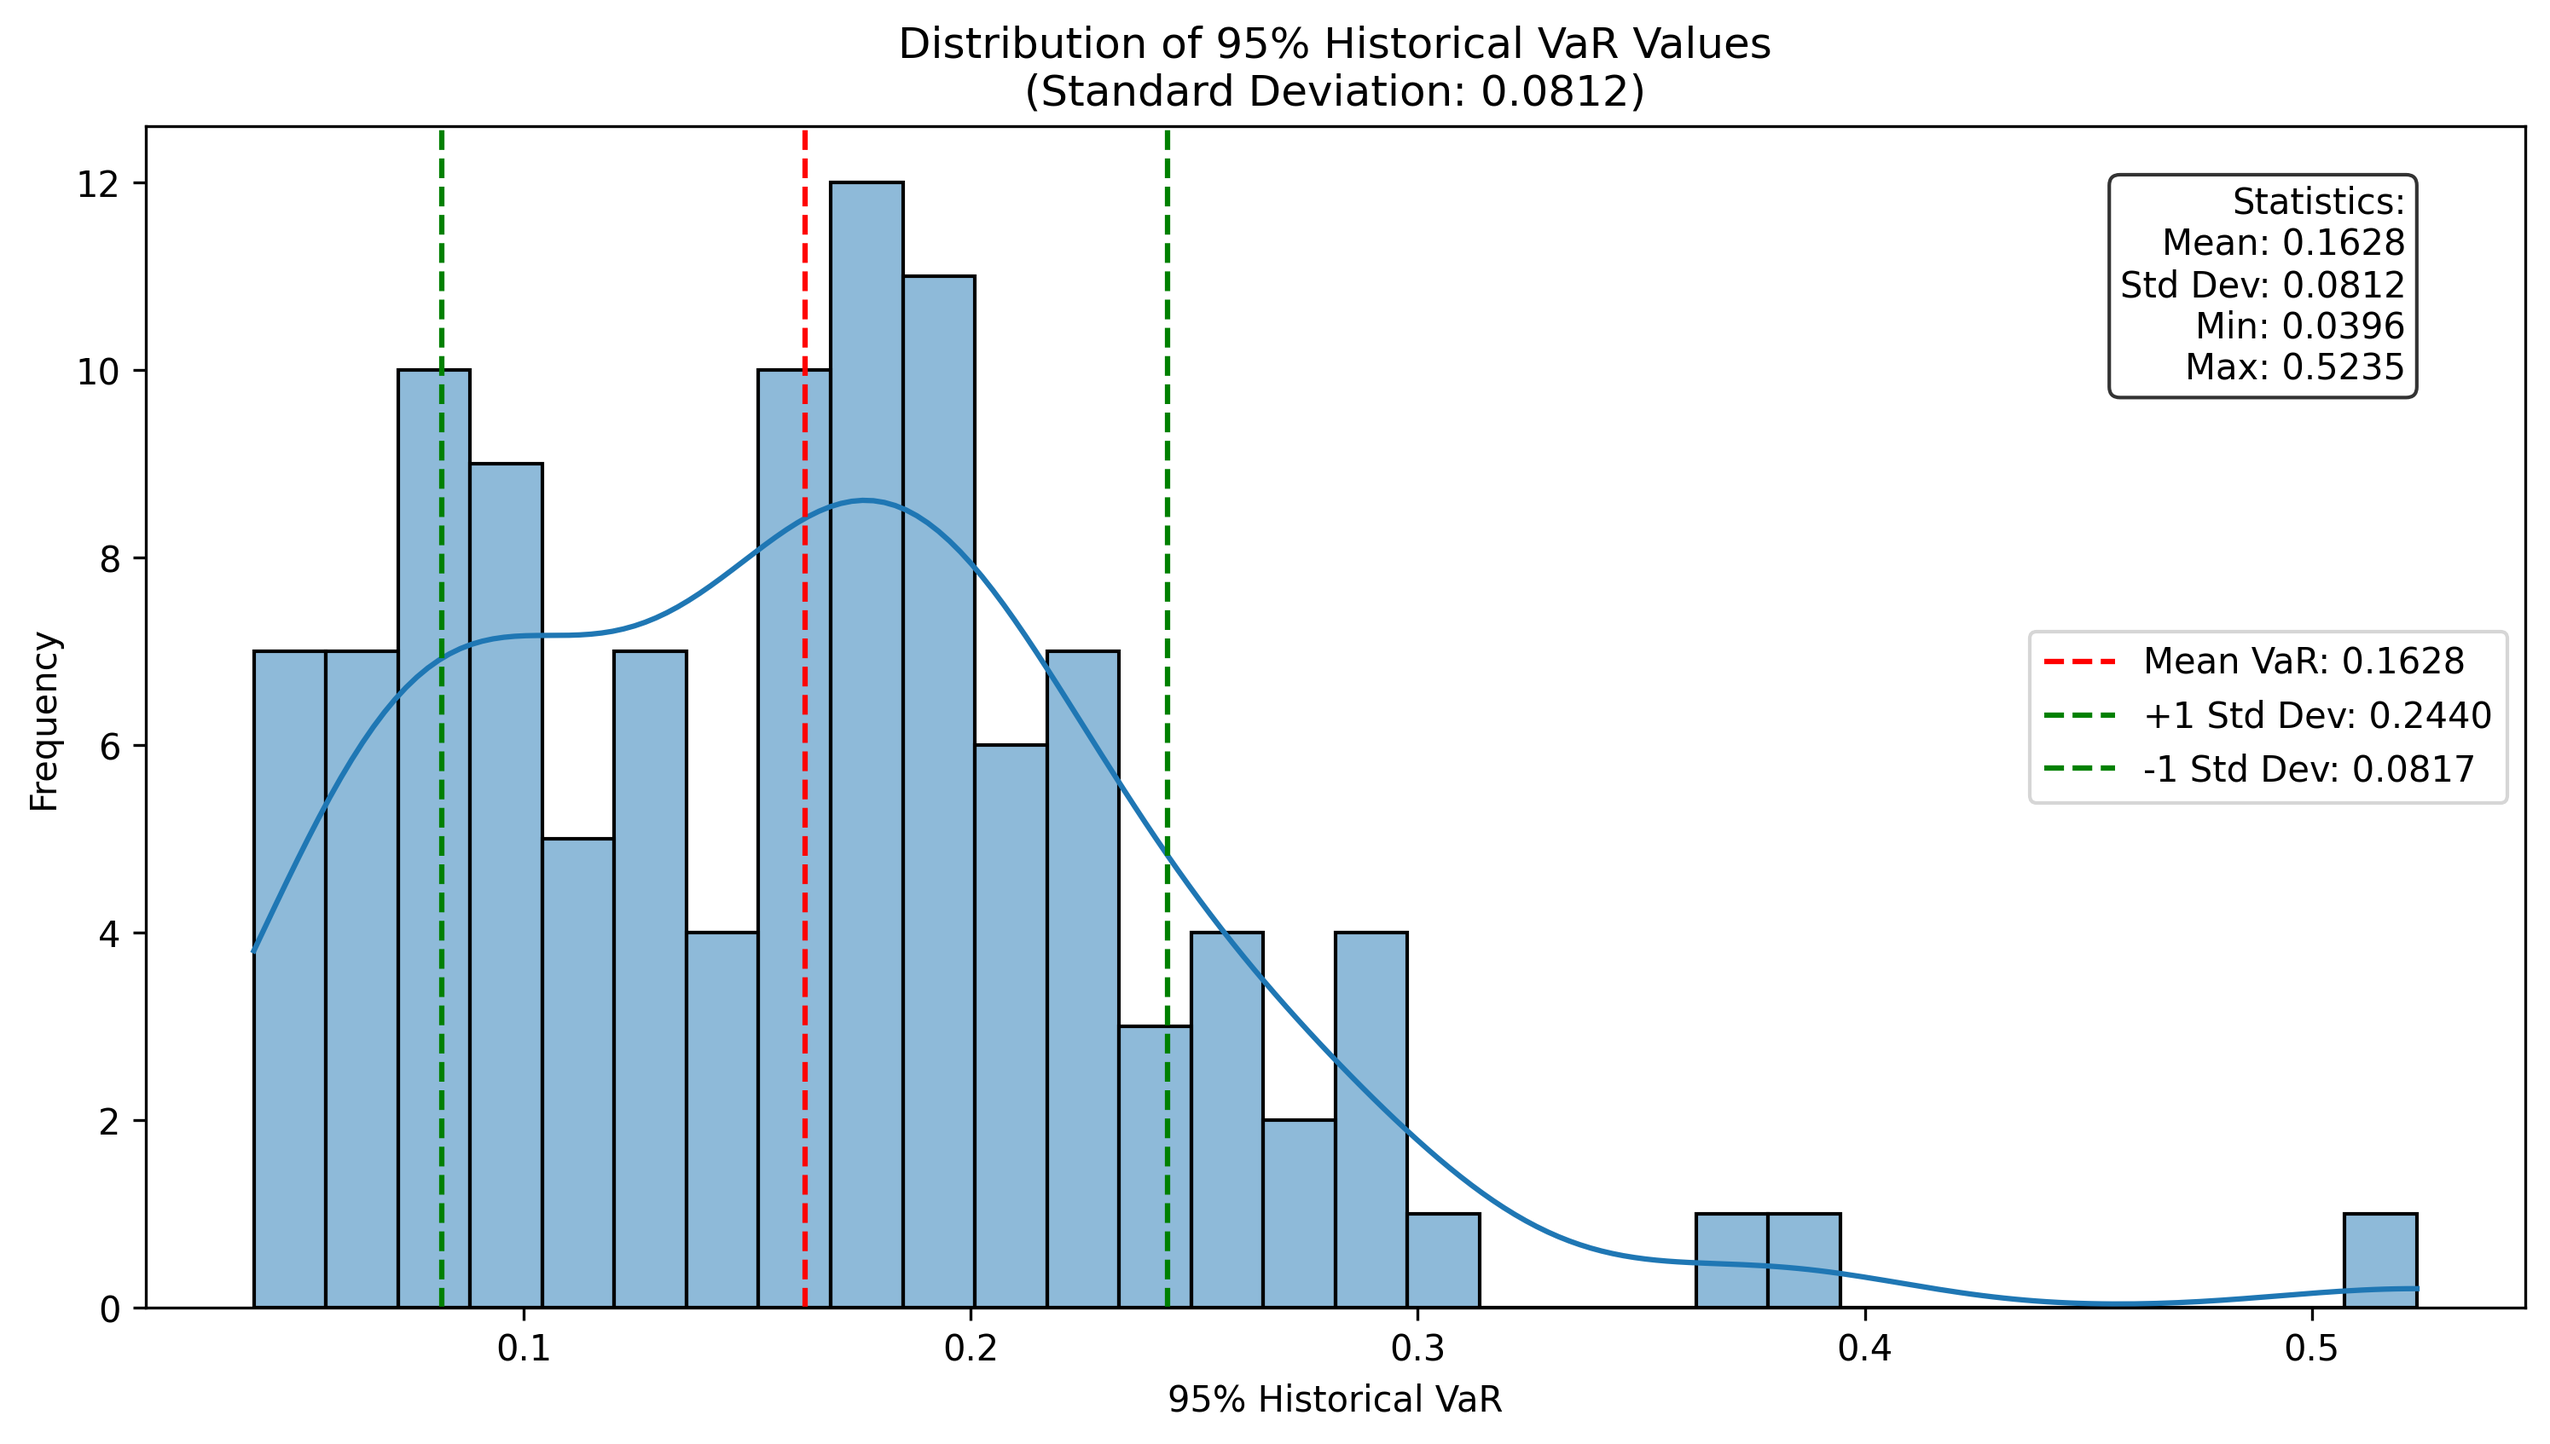
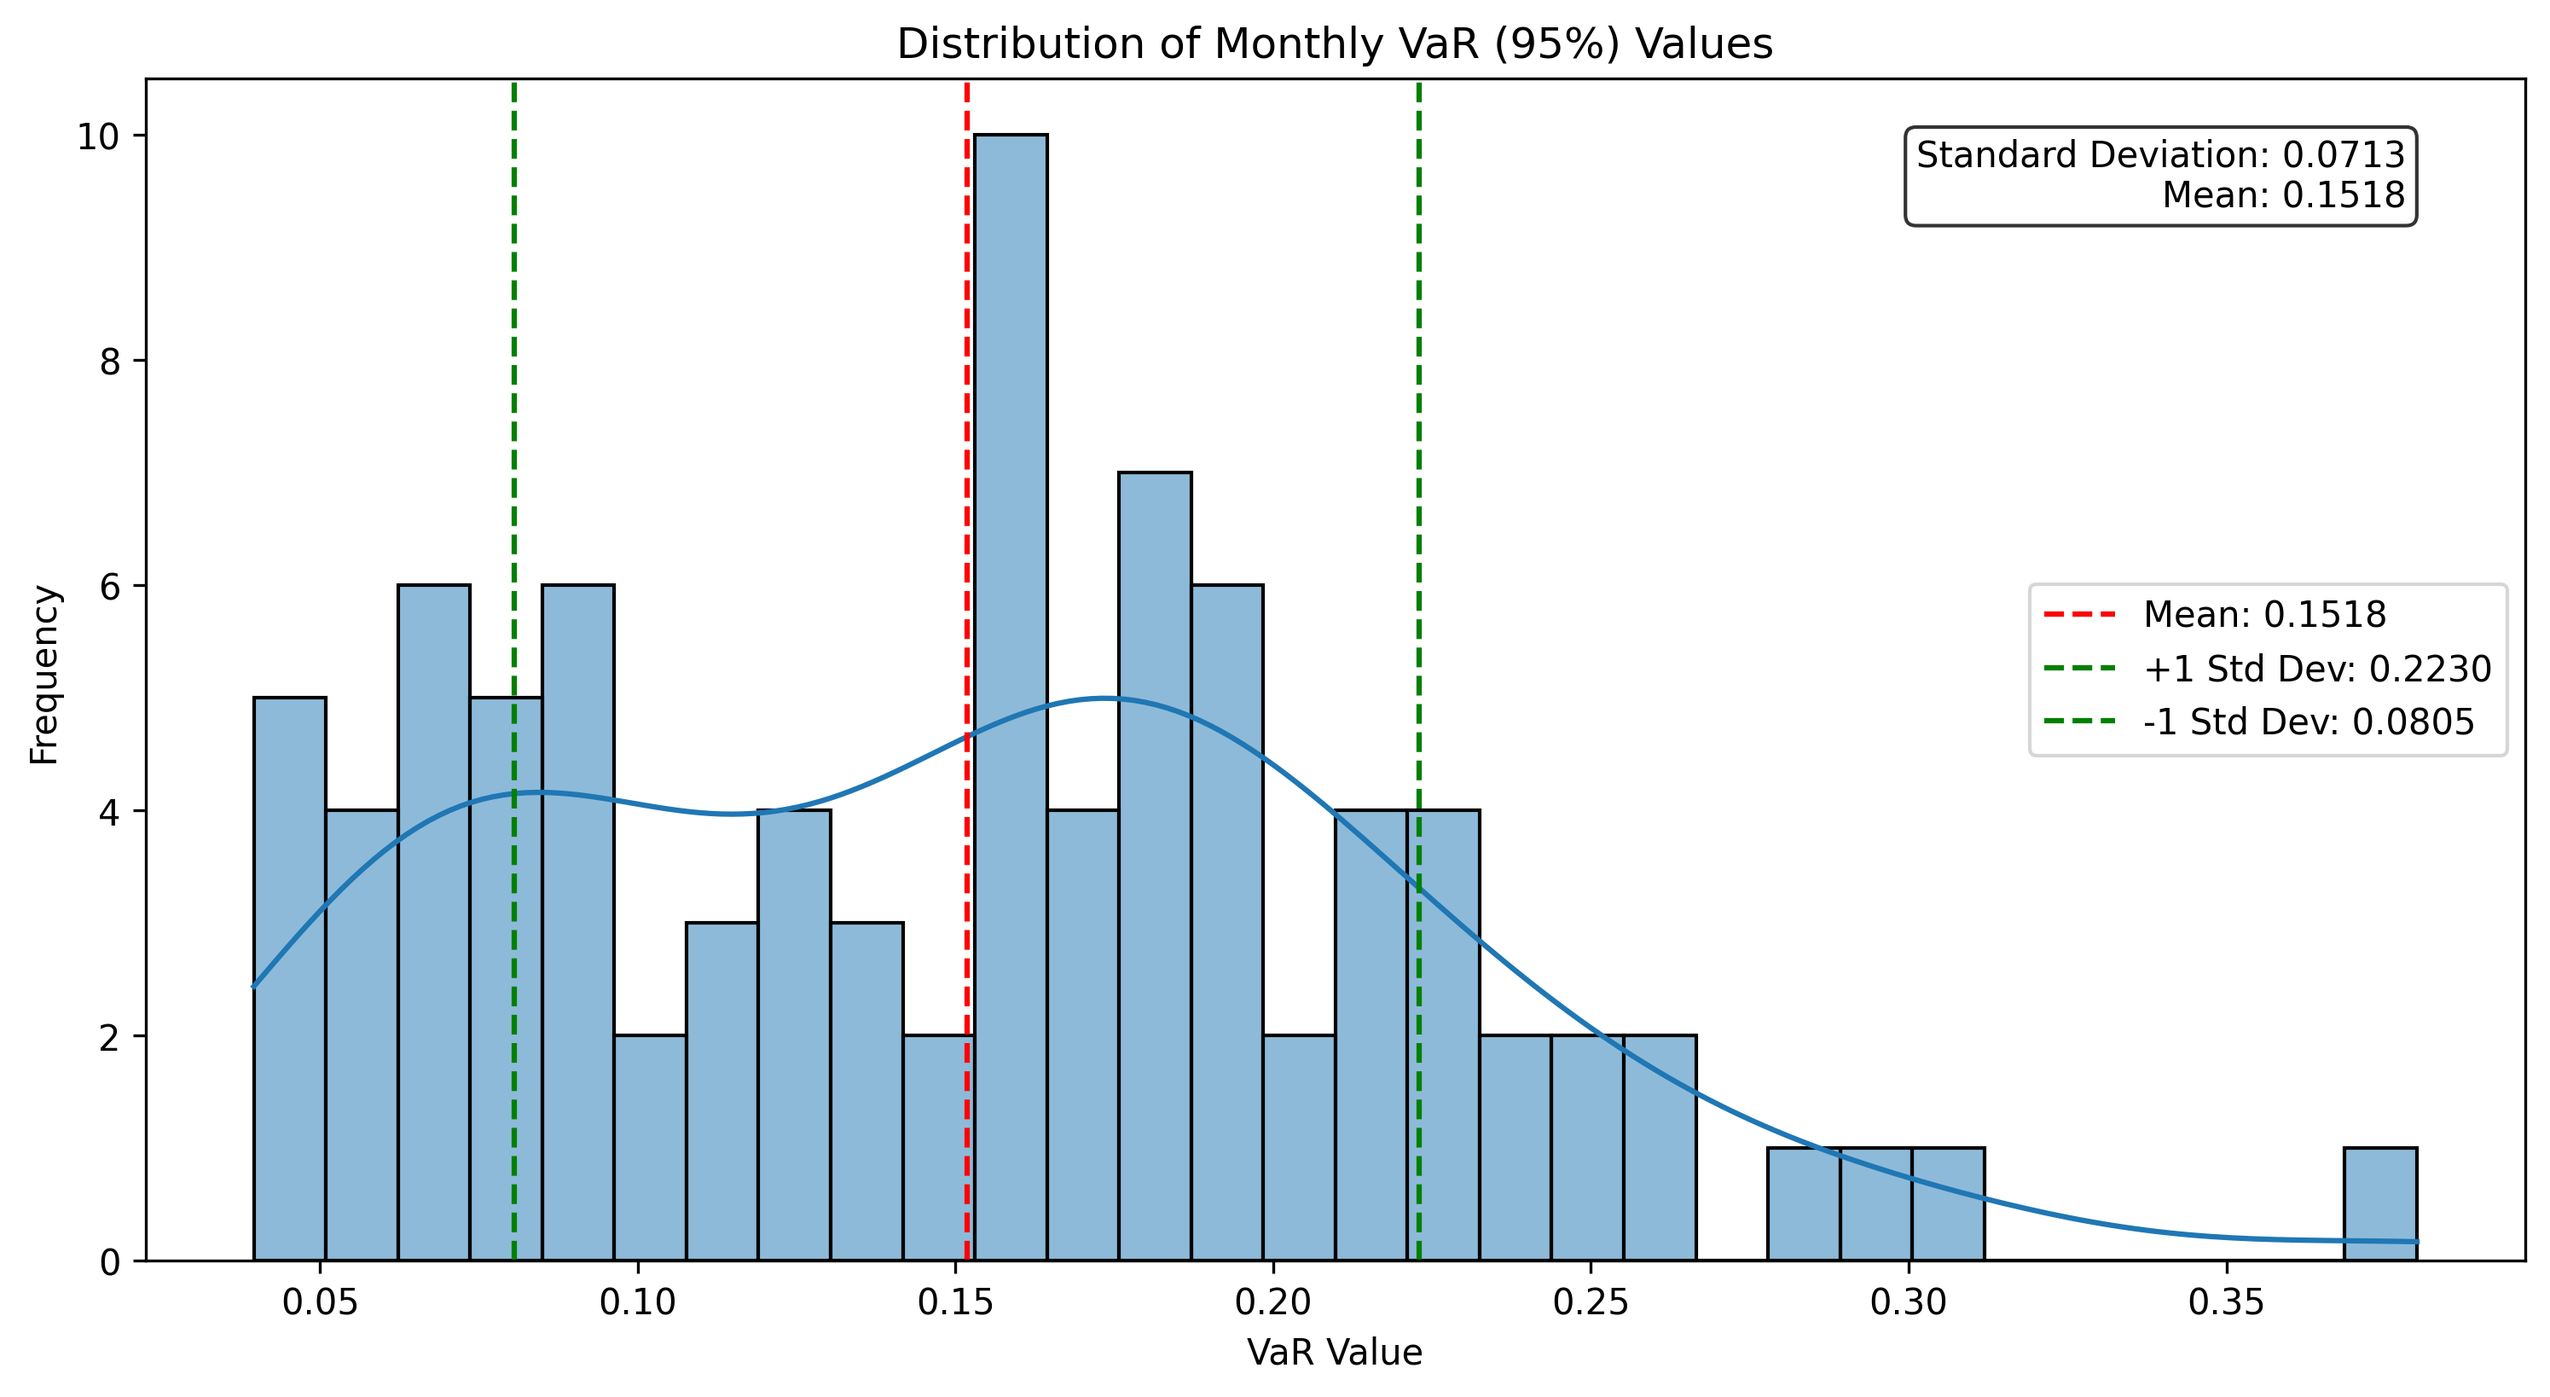
new

diff --git a/count_zero_volume.py b/count_zero_volume.py
@@ -1,0 +1,50 @@
+import json
+from pathlib import Path
+import pandas as pd
+
+def count_zero_volumes():
+    # Directory containing the stock price JSON files
+    results_dir = Path('results')
+    
+    # Dictionary to store results
+    zero_volume_counts = {}
+    
+    # Process each JSON file
+    for file_path in results_dir.glob('stock_price_*.json'):
+        stock_code = file_path.stem.split('_')[-1]
+        print(f"Processing {stock_code}...")
+        
+        try:
+            # Read JSON file
+            with open(file_path, 'r', encoding='utf-8') as f:
+                data = json.load(f)
+            
+            # Count occurrences of "TotalMatchVol": "0"
+            zero_count = sum(1 for item in data if item.get('TotalMatchVol') == '0')
+            
+            # Store result
+            zero_volume_counts[stock_code] = zero_count
+            
+        except Exception as e:
+            print(f"Error processing {stock_code}: {str(e)}")
+    
+    # Convert to DataFrame for better visualization
+    df = pd.DataFrame(list(zero_volume_counts.items()), columns=['Stock', 'ZeroVolumeCount'])
+    df = df.sort_values('ZeroVolumeCount', ascending=False)
+    
+    # Filter stocks with more than 100 zero volumes
+    high_zero_volume_stocks = df[df['ZeroVolumeCount'] > 100]
+    
+    # Save results to JSON
+    output_file = 'zero_volume_counts.json'
+    with open(output_file, 'w', encoding='utf-8') as f:
+        json.dump(zero_volume_counts, f, indent=4)
+    
+    # Print summary of stocks with high zero volumes
+    print("\nStocks with more than 100 zero volume entries:")
+    print(high_zero_volume_stocks)
+    print(f"\nTotal number of stocks with >100 zero volumes: {len(high_zero_volume_stocks)}")
+    print(f"\nFull results saved to {output_file}")
+
+if __name__ == "__main__":
+    count_zero_volumes() 

diff --git a/analyze_var_distribution.py b/analyze_var_distribution.py
@@ -1,0 +1,47 @@
+import pandas as pd
+import numpy as np
+import matplotlib.pyplot as plt
+from pathlib import Path
+import seaborn as sns
+
+# Create output directory for plots
+output_dir = Path('var_analysis')
+output_dir.mkdir(exist_ok=True)
+
+# Read the filtered VAR results
+var_df = pd.read_csv('filtered_historical_var_95_results.csv')
+
+# Calculate standard deviation
+std_dev = var_df['historical_var_95'].std()
+mean = var_df['historical_var_95'].mean()
+
+# Create the distribution plot
+plt.figure(figsize=(12, 6))
+sns.histplot(data=var_df, x='historical_var_95', bins=30, kde=True)
+
+# Add mean and standard deviation lines
+plt.axvline(mean, color='red', linestyle='--', label=f'Mean: {mean:.4f}')
+plt.axvline(mean + std_dev, color='green', linestyle='--', label=f'+1 Std Dev: {mean + std_dev:.4f}')
+plt.axvline(mean - std_dev, color='green', linestyle='--', label=f'-1 Std Dev: {mean - std_dev:.4f}')
+
+# Customize the plot
+plt.title('Distribution of Monthly VaR (95%) Values')
+plt.xlabel('VaR Value')
+plt.ylabel('Frequency')
+plt.legend()
+
+# Add text box with statistics
+stats_text = f'Standard Deviation: {std_dev:.4f}\nMean: {mean:.4f}'
+plt.text(0.95, 0.95, stats_text,
+         transform=plt.gca().transAxes,
+         verticalalignment='top',
+         horizontalalignment='right',
+         bbox=dict(boxstyle='round', facecolor='white', alpha=0.8))
+
+# Save the plot
+plt.savefig(output_dir / 'var_distribution.png', dpi=300, bbox_inches='tight')
+plt.close()
+
+print(f"Standard Deviation of Monthly VaR: {std_dev:.4f}")
+print(f"Mean of Monthly VaR: {mean:.4f}")
+print(f"Plot saved to: {output_dir / 'var_distribution.png'}") 

diff --git a/list_var_bins.py b/list_var_bins.py
@@ -1,0 +1,24 @@
+import pandas as pd
+import numpy as np
+
+# Read the filtered VAR results
+var_df = pd.read_csv('filtered_historical_var_95_results.csv')
+
+# Define bins (same as in the plot)
+bins = np.linspace(var_df['historical_var_95'].min(), var_df['historical_var_95'].max(), 31)  # 30 bins
+labels = [f"{bins[i]:.4f} - {bins[i+1]:.4f}" for i in range(len(bins)-1)]
+
+# Assign each stock to a bin
+var_df['VaR_bin'] = pd.cut(var_df['historical_var_95'], bins=bins, labels=labels, include_lowest=True)
+
+# Group by bin and list stocks
+bin_groups = var_df.groupby('VaR_bin')['stock_code'].apply(list)
+frequencies = var_df['VaR_bin'].value_counts().sort_index()
+
+# Output the results
+for bin_label in labels:
+    stocks_in_bin = bin_groups.get(bin_label, [])
+    freq = frequencies.get(bin_label, 0)
+    print(f"Range: {bin_label}")
+    print(f"  Frequency: {freq}")
+    print(f"  Stocks: {', '.join(stocks_in_bin) if stocks_in_bin else 'None'}\n") 

diff --git a/sort_var_bins_json.py b/sort_var_bins_json.py
@@ -1,0 +1,24 @@
+import json
+import pandas as pd
+
+# Load VaR values
+var_df = pd.read_csv('filtered_historical_var_95_results.csv').set_index('stock_code')
+
+# Load bins summary
+with open('var_bins_summary.json', 'r') as f:
+    bins = json.load(f)
+
+# Sort stocks in each bin by their VaR value
+for bin_info in bins:
+    stocks = bin_info['stocks']
+    # Get (stock, var) pairs and sort
+    stock_vars = [(stock, var_df.loc[stock, 'historical_var_95']) for stock in stocks if stock in var_df.index]
+    stock_vars_sorted = sorted(stock_vars, key=lambda x: x[1])
+    # Replace with sorted stock codes
+    bin_info['stocks'] = [s for s, v in stock_vars_sorted]
+
+# Save the updated bins summary
+with open('var_bins_summary.json', 'w') as f:
+    json.dump(bins, f, indent=2)
+
+print('Stocks in each bin have been sorted by VaR value (ascending).') 

diff --git a/filter_var_results.py b/filter_var_results.py
@@ -1,0 +1,19 @@
+import pandas as pd
+import json
+
+# Read the zero volume stocks
+with open('zero_volume_counts.json', 'r') as f:
+    zero_volume_stocks = json.load(f)
+
+# Read the VAR results
+var_df = pd.read_csv('historical_var_95_results.csv')
+
+# Filter out stocks that are in zero_volume_stocks
+filtered_df = var_df[~var_df['stock_code'].isin(zero_volume_stocks.keys())]
+
+# Save the filtered results
+filtered_df.to_csv('filtered_historical_var_95_results.csv', index=False)
+
+print(f"Original number of stocks: {len(var_df)}")
+print(f"Number of stocks after filtering: {len(filtered_df)}")
+print(f"Number of stocks removed: {len(var_df) - len(filtered_df)}") 
